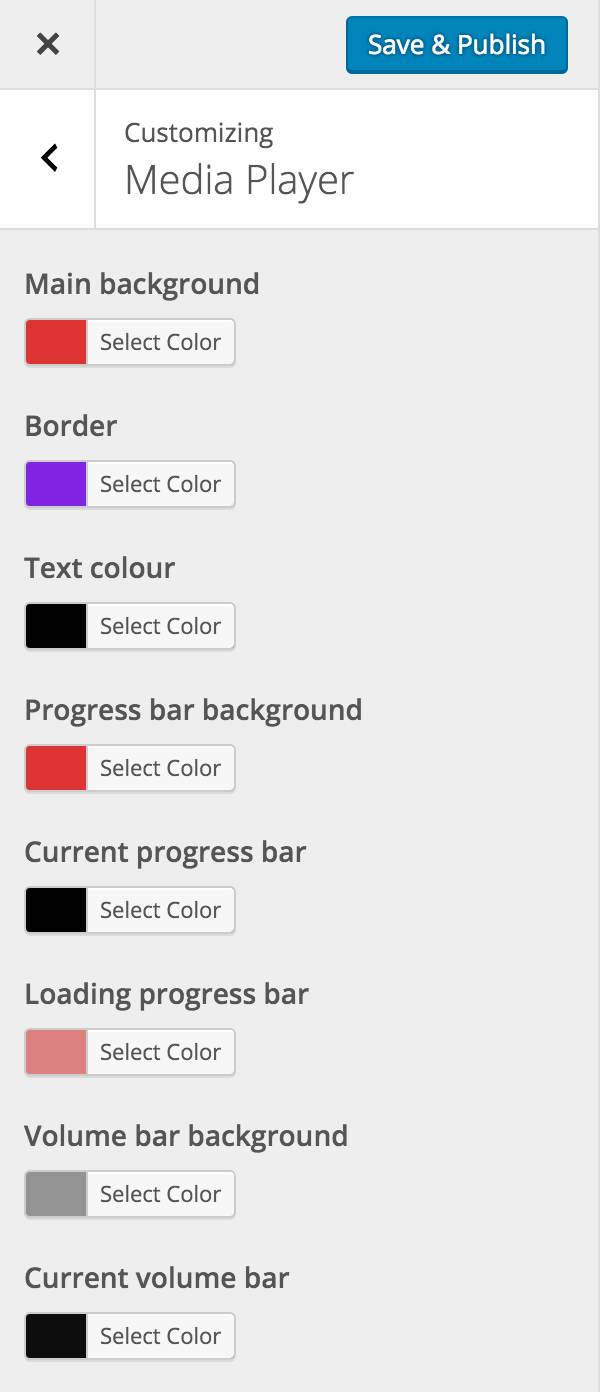
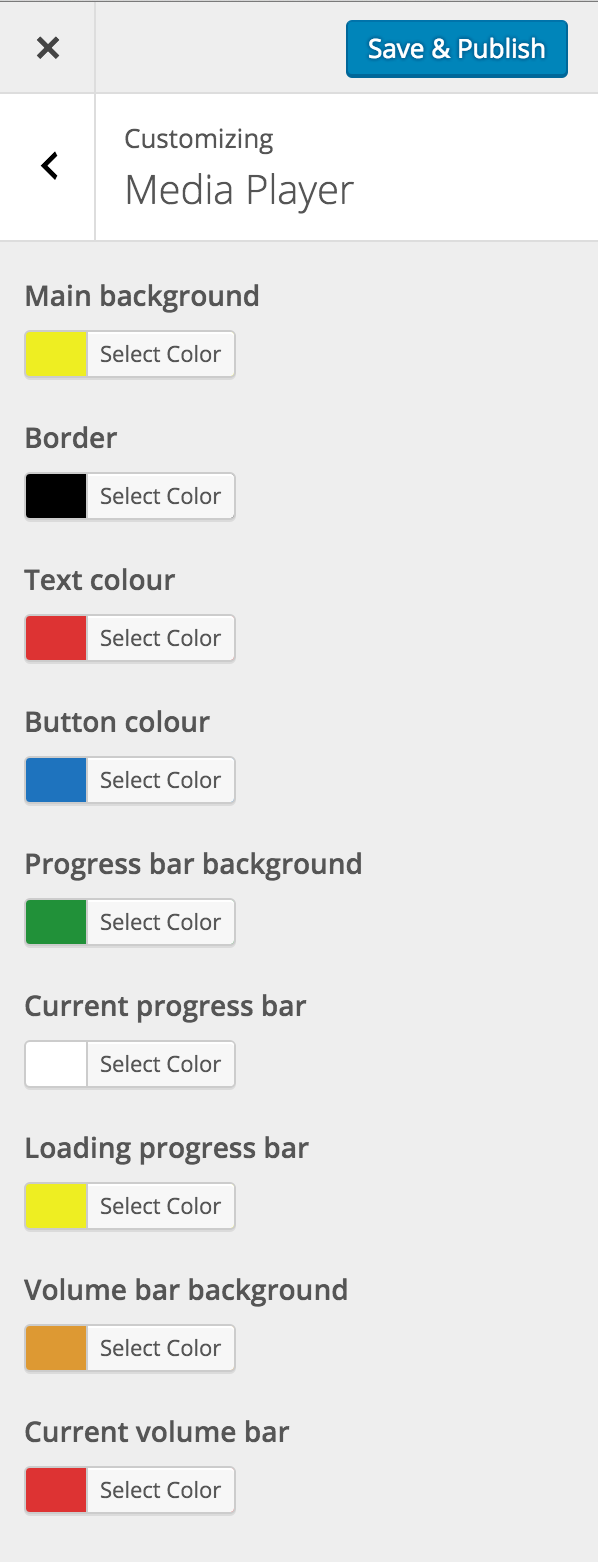
v1 final

diff --git a/assets/js/admin.min.js b/assets/js/admin.min.js
@@ -1,1 +1,1 @@
-!function(t){wp.customize("media_player_styles[main_background]",function(e){e.bind(function(e){t(".mejs-controls").attr("style",t(".mejs-controls").attr("style")+"; background: "+e+" !important"),t(".mejs-mediaelement").attr("style",t(".mejs-mediaelement").attr("style")+"; background: "+e+" !important")})}),wp.customize("media_player_styles[border]",function(e){e.bind(function(e){t(".mejs-container").attr("style",t(".mejs-container").attr("style")+"; border: 1px solid "+e+" !important")})}),wp.customize("media_player_styles[text_color]",function(e){e.bind(function(e){t(".mejs-container *").attr("style",t(".mejs-container *").attr("style")+"; color: "+e+" !important")})}),wp.customize("media_player_styles[progress_bar_background]",function(e){e.bind(function(e){t(".mejs-controls .mejs-time-rail .mejs-time-total").attr("style",t(".mejs-controls .mejs-time-rail .mejs-time-total").attr("style")+"; background: "+e+" !important")})}),wp.customize("media_player_styles[current_progress_bar]",function(e){e.bind(function(e){t(".mejs-controls .mejs-time-rail .mejs-time-current").attr("style",t(".mejs-controls .mejs-time-rail .mejs-time-current").attr("style")+"; background: "+e+" !important")})}),wp.customize("media_player_styles[loading_progress_bar]",function(e){e.bind(function(e){t(".mejs-controls .mejs-time-rail .mejs-time-loaded").attr("style",t(".mejs-controls .mejs-time-rail .mejs-time-loaded").attr("style")+"; background: "+e+" !important")})}),wp.customize("media_player_styles[volume_bar_background]",function(e){e.bind(function(e){t(".mejs-controls .mejs-horizontal-volume-slider .mejs-horizontal-volume-total").attr("style",t(".mejs-controls .mejs-horizontal-volume-slider .mejs-horizontal-volume-total").attr("style")+"; background: "+e+" !important")})}),wp.customize("media_player_styles[current_volume_bar]",function(e){e.bind(function(e){t(".mejs-controls .mejs-horizontal-volume-slider .mejs-horizontal-volume-current").attr("style",t(".mejs-controls .mejs-horizontal-volume-slider .mejs-horizontal-volume-current").attr("style")+"; background: "+e+" !important")})})}(jQuery);
+!function(t){wp.customize("media_player_styles[main_background]",function(e){e.bind(function(e){t(".mejs-controls").attr("style",t(".mejs-controls").attr("style")+"; background: "+e+" !important"),t(".mejs-mediaelement").attr("style",t(".mejs-mediaelement").attr("style")+"; background: "+e+" !important")})}),wp.customize("media_player_styles[border]",function(e){e.bind(function(e){t(".mejs-container").attr("style",t(".mejs-container").attr("style")+"; border: 1px solid "+e+" !important")})}),wp.customize("media_player_styles[text_color]",function(e){e.bind(function(e){t(".mejs-container .mejs-time .mejs-currenttime").attr("style",t(".mejs-container .mejs-time .mejs-currenttime").attr("style")+"; color: "+e+" !important"),t(".mejs-container .mejs-time .mejs-duration").attr("style",t(".mejs-container .mejs-time .mejs-duration").attr("style")+"; color: "+e+" !important")})}),wp.customize("media_player_styles[button_color]",function(e){e.bind(function(e){t(".mejs-controls .mejs-play button").attr("style",t(".mejs-controls .mejs-play button").attr("style")+"; color: "+e+" !important"),t(".mejs-controls .mejs-pause button").attr("style",t(".mejs-controls .mejs-pause button").attr("style")+"; color: "+e+" !important"),t(".mejs-controls .mejs-fullscreen-button button").attr("style",t(".mejs-controls .mejs-fullscreen-button button").attr("style")+"; color: "+e+" !important"),t(".mejs-controls .mejs-mute button").attr("style",t(".mejs-controls .mejs-mute button").attr("style")+"; color: "+e+" !important"),t(".mejs-controls .mejs-unmute button").attr("style",t(".mejs-controls .mejs-unmute button").attr("style")+"; color: "+e+" !important")})}),wp.customize("media_player_styles[progress_bar_background]",function(e){e.bind(function(e){t(".mejs-controls .mejs-time-rail .mejs-time-total").attr("style",t(".mejs-controls .mejs-time-rail .mejs-time-total").attr("style")+"; background: "+e+" !important")})}),wp.customize("media_player_styles[current_progress_bar]",function(e){e.bind(function(e){t(".mejs-controls .mejs-time-rail .mejs-time-current").attr("style",t(".mejs-controls .mejs-time-rail .mejs-time-current").attr("style")+"; background: "+e+" !important")})}),wp.customize("media_player_styles[loading_progress_bar]",function(e){e.bind(function(e){t(".mejs-controls .mejs-time-rail .mejs-time-loaded").attr("style",t(".mejs-controls .mejs-time-rail .mejs-time-loaded").attr("style")+"; background: "+e+" !important")})}),wp.customize("media_player_styles[volume_bar_background]",function(e){e.bind(function(e){t(".mejs-controls .mejs-horizontal-volume-slider .mejs-horizontal-volume-total").attr("style",t(".mejs-controls .mejs-horizontal-volume-slider .mejs-horizontal-volume-total").attr("style")+"; background: "+e+" !important")})}),wp.customize("media_player_styles[current_volume_bar]",function(e){e.bind(function(e){t(".mejs-controls .mejs-horizontal-volume-slider .mejs-horizontal-volume-current").attr("style",t(".mejs-controls .mejs-horizontal-volume-slider .mejs-horizontal-volume-current").attr("style")+"; background: "+e+" !important")})})}(jQuery);

diff --git a/assets/js/admin.js b/assets/js/admin.js
@@ -14,7 +14,18 @@
 
   wp.customize( 'media_player_styles[text_color]', function( value ) {
     value.bind( function( to ) {
-      $( '.mejs-container *' ).attr( 'style', $( '.mejs-container *' ).attr( 'style' ) + '; color: ' + to + ' !important' );
+      $( '.mejs-container .mejs-time .mejs-currenttime' ).attr( 'style', $( '.mejs-container .mejs-time .mejs-currenttime' ).attr( 'style' ) + '; color: ' + to + ' !important' );
+      $( '.mejs-container .mejs-time .mejs-duration' ).attr( 'style', $( '.mejs-container .mejs-time .mejs-duration' ).attr( 'style' ) + '; color: ' + to + ' !important' );
+    } );
+  } );
+
+  wp.customize( 'media_player_styles[button_color]', function( value ) {
+    value.bind( function( to ) {
+      $( '.mejs-controls .mejs-play button' ).attr( 'style', $( '.mejs-controls .mejs-play button' ).attr( 'style' ) + '; color: ' + to + ' !important' );
+      $( '.mejs-controls .mejs-pause button' ).attr( 'style', $( '.mejs-controls .mejs-pause button' ).attr( 'style' ) + '; color: ' + to + ' !important' );
+      $( '.mejs-controls .mejs-fullscreen-button button' ).attr( 'style', $( '.mejs-controls .mejs-fullscreen-button button' ).attr( 'style' ) + '; color: ' + to + ' !important' );
+      $( '.mejs-controls .mejs-mute button' ).attr( 'style', $( '.mejs-controls .mejs-mute button' ).attr( 'style' ) + '; color: ' + to + ' !important' );
+      $( '.mejs-controls .mejs-unmute button' ).attr( 'style', $( '.mejs-controls .mejs-unmute button' ).attr( 'style' ) + '; color: ' + to + ' !important' );
     } );
   } );
 

diff --git a/assets/css/frontend.css b/assets/css/frontend.css
@@ -1,0 +1,8 @@
+.mejs-controls .mejs-button button{background:none !important;font-size:150% !important;line-height:1 !important;}
+.mejs-controls .mejs-button button:before{font-family:dashicons;}
+.mejs-controls .mejs-play button:before {content:"\f522";}
+.mejs-controls .mejs-pause button:before{content:"\f523";}
+.mejs-controls .mejs-mute button:before{content:"\f521";}
+.mejs-controls .mejs-unmute button:before{content:"\f520";}
+.mejs-controls .mejs-fullscreen-button button:before{content:"\f211";}
+.mejs-controls .mejs-fullscreen-button.mejs-unfullscreen button:before{content:"\f506";}

diff --git a/includes/class-media-player-style-kit.php b/includes/class-media-player-style-kit.php
@@ -88,6 +88,9 @@ class Media_Player_Style_Kit {
 
 		register_activation_hook( $this->file, array( $this, 'install' ) );
 
+		// Load fonrtend CSS
+		add_action( 'wp_enqueue_scripts', array( $this, 'enqueue_styles' ), 10 );
+
 		// Load custom styles on the frontend
 		add_action( 'wp_print_styles', array( $this, 'print_styles' ), 10 );
 
@@ -117,6 +120,7 @@ class Media_Player_Style_Kit {
 			'main_background' => __( 'Main background', 'media-player-style-kit' ),
 			'border' => __( 'Border', 'media-player-style-kit' ),
 			'text_color' => __( 'Text colour', 'media-player-style-kit' ),
+			'button_color' => __( 'Button colour', 'media-player-style-kit' ),
 			'progress_bar_background' => __( 'Progress bar background', 'media-player-style-kit' ),
 			'current_progress_bar' => __( 'Current progress bar', 'media-player-style-kit' ),
 			'loading_progress_bar' => __( 'Loading progress bar', 'media-player-style-kit' ),
@@ -181,6 +185,12 @@ class Media_Player_Style_Kit {
 			}
 			<?php } ?>
 
+			<?php if( isset( $style_options['button_color'] ) && $style_options['button_color'] ) { ?>
+			.mejs-controls button {
+				color: <?php echo $style_options['button_color']; ?> !important;
+			}
+			<?php } ?>
+
 			<?php if( isset( $style_options['progress_bar_background'] ) && $style_options['progress_bar_background'] ) { ?>
 			.mejs-controls .mejs-time-rail .mejs-time-total {
 				background: <?php echo $style_options['progress_bar_background']; ?> !important;
@@ -214,6 +224,17 @@ class Media_Player_Style_Kit {
 		</style>
 		<?php
 	}
+
+	/**
+	 * Load frontend CSS
+	 * @access  public
+	 * @since   1.0.0
+	 * @return void
+	 */
+	public function enqueue_styles () {
+		wp_register_style( $this->_token . '-frontend', esc_url( $this->assets_url ) . 'css/frontend.css', array( 'dashicons' ), $this->_version );
+		wp_enqueue_style( $this->_token . '-frontend' );
+	} // End enqueue_styles ()
 
 	/**
 	 * Load plugin localisation
